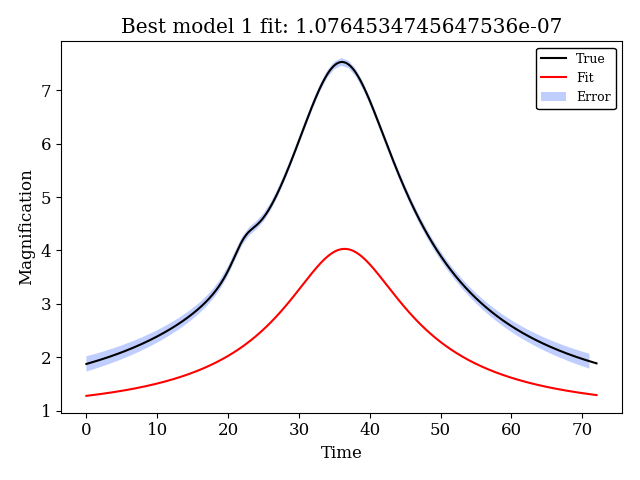
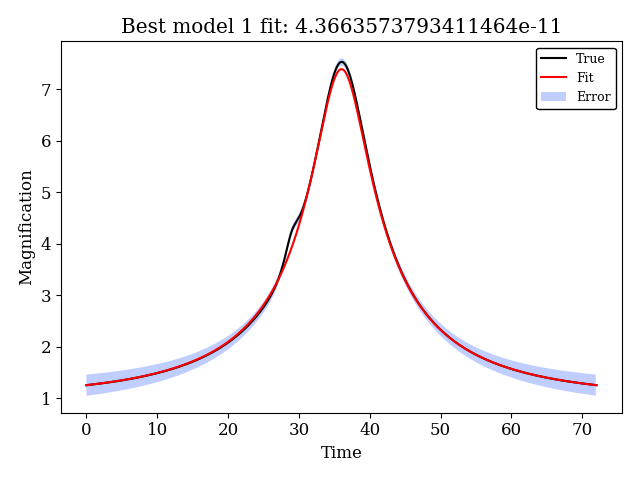
mcmc opt surr

diff --git a/ReversibleJump.py b/ReversibleJump.py
@@ -43,11 +43,11 @@ sn = 2
 
 # Synthetic Event Parameters
 theta_Models = [
-    [36, 0.133, 61.5, 0.0096, 0.002, 1.27, 210.8], # strong binary
-    [36, 0.133, 61.5, 0.0096, 0.00091, 1.3, 210.8], # weak binary 1
-    [36, 0.133, 61.5, 0.0056, 0.0007, 1.3, 210.8], # weak binary 2
-    [36, 0.133, 61.5, 0.0096, 0.0002, 4.9, 223.8], # indistiguishable from single
-    [36, 0.133, 61.5]  # single
+    [36, 0.133, 31.5, 0.0096, 0.002, 1.27, 210.8], # strong binary
+    [36, 0.133, 31.5, 0.0096, 0.00091, 1.3, 210.8], # weak binary 1
+    [36, 0.133, 31.5, 0.0056, 0.0007, 1.3, 210.8], # weak binary 2
+    [36, 0.133, 31.5, 0.0096, 0.0002, 4.9, 223.8], # indistiguishable from single
+    [36, 0.133, 31.5]  # single
     ]
 theta_Model = np.array(theta_Models[sn])
 
@@ -65,7 +65,7 @@ Model.set_magnification_methods([0., 'VBBL', 72.])
 #0, 50, 25, 0.3
 # Generate "Synthetic" Lightcurve
 #epochs = Model.set_times(n_epochs = 720)
-n_epochs = 72
+n_epochs = 720
 epochs = np.linspace(0, 72, n_epochs + 1)[:n_epochs]
 #signal_data = Model.magnification(t)
 #epochs = Model.set_times(n_epochs = 100)
@@ -80,7 +80,7 @@ signal_data = Model.magnification(signal_epochs)
 
 #print(Model.magnification(epochs))
 
-iterations = 200
+iterations = 500
 
 
 
@@ -133,10 +133,10 @@ def ParralelMain(arr):
     sn, Data, signal_data, priors, binary_Sposterior, single_Sposterior, m_pi, iterations = arr
 
     # centreing points for inter-model jumps
-    #center_1 = np.array([36., 0.133, 61.5])
+    center_1s = np.array([36., 0.133, 31.5])
     #center_1 = np.array([36., 0.133, 61.5])
 
-    center_2s = [
+    center_2ss = [
         [36, 0.133, 61.5, 0.0096, np.log(0.002), 1.27, 210.8], # strong binary
         [36., 0.133, 61.5, 0.00963, np.log(0.00092), 1.31, 210.8], # weak binary 1
         [36., 0.133, 61.5, 0.0052, np.log(0.0006), 1.29, 210.9], # weak binary 2
@@ -145,25 +145,33 @@ def ParralelMain(arr):
     #center_2 = np.array(center_2s[sn])
 
     center_2s = interf.get_model_centers(binary_Sposterior, signal_data)
+    center_2s[4] = np.log(center_2s[4])
+
     #print("\n", center_2, " hi")
-    center_1s = interf.get_model_centers(single_Sposterior, signal_data)
+    #center_1s = interf.get_model_centers(single_Sposterior, signal_data)
     #print(Data.flux)
     #binary_ensemble = interf.get_model_ensemble(binary_posterior, Data.flux, 100000)
 
+    '''
     fun = lambda x: -np.exp(f.logLikelihood(1, Data, f.scale(x), priors))
-    min_center_1 = minimize(fun, center_1s)
-        print(min_center_2)
-    center_2 = min_center_2.x
+    min_center_1 = minimize(fun, center_1s, method='CG')
+    print(min_center_1)
+    center_1 = min_center_1.x
 
     fun = lambda x: -np.exp(f.logLikelihood(2, Data, f.scale(x), priors))
-    min_center_2 = minimize(fun, center_2s)
+    min_center_2 = minimize(fun, center_2s, method='CG')
     print(min_center_2)
     center_2 = min_center_2.x
-    
+    '''
+
+
+
+
+
 
 
     # initial covariances (diagonal)
-    cov_scale = 0.00001 #0.01
+    cov_scale = 0.01 #0.01
     covariance_1 = np.multiply(cov_scale, [0.1, 0.01, 0.1])
     covariance_2 = np.multiply(cov_scale, [0.1, 0.01, 0.1, 0.0001, 0.01, 0.01, 0.1])#0.5
 
@@ -175,23 +183,24 @@ def ParralelMain(arr):
 
     # Use adaptiveMCMC to calculate initial covariances
     burns = 25
-    iters = 25#250
+    iters = 500#250
     theta_1i = center_1s
     theta_2i = center_2s
-    covariance_1p, states_1, means_1, c_1, NULL = f.AdaptiveMCMC(1, Data, theta_1i, priors, covariance_1, burns, iters)
-    covariance_2p, states_2, means_2, c_2, NULL = f.AdaptiveMCMC(2, Data, theta_2i, priors, covariance_2, burns, iters)
+    covariance_1p, states_1, means_1, c_1, null, bests, center_1 = f.AdaptiveMCMC(1, Data, theta_1i, priors, covariance_1, burns, iters)
+    covariance_2p, states_2, means_2, c_2, null, bests, center_2 = f.AdaptiveMCMC(2, Data, theta_2i, priors, covariance_2, burns, iters)
 
     covariance_p = [covariance_1p, covariance_2p]
 
     #center_1 = states_1[:, -1]
-    #center_2 = states_2[:, 1]
-
+    #center_2 = states_2[:, -1]
+    
     print(center_1s, center_1)
     print(center_2s, center_2)
 
     print("Center 1", center_1, "True Prob", np.exp(f.logLikelihood(1, Data, center_1, priors)))
     print("Center 2", center_2, "True Prob", np.exp(f.logLikelihood(2, Data, center_2, priors)))
     centers = [center_1, center_2]
+
     # loop specific values
 
     #print(states_1[:, -1])
@@ -229,7 +238,7 @@ def ParralelMain(arr):
     print('Running RJMCMC')
 
                 
-    mem_2 = states_2[:, -1]
+    mem_2 = center_2#states_2[:, -1]
     adaptive_score = [[], []]
     #inter_props = [0, 0]
 
@@ -242,7 +251,7 @@ def ParralelMain(arr):
         #diagnostics
         #print(f'\rLikelihood: {np.exp(pi):.3f}', end='')
         cf = i/(iterations-1);
-        #print(f'Current: Likelihood {np.exp(pi):.4f}, M {m} | Progress: [{"#"*round(50*cf)+"-"*round(50*(1-cf))}] {100.*cf:.2f}%\r', end='')
+        print(f'Current: Likelihood {np.exp(pi):.4f}, M {m} | Progress: [{"#"*round(50*cf)+"-"*round(50*(1-cf))}] {100.*cf:.2f}%\r', end='')
 
         mProp = random.randint(1,2) # since all models are equally likelly, this has no presence in the acceptance step
         #thetaProp = f.RJCenteredProposal(m, mProp, theta, covariance_p[mProp-1], centers, mem_2, priors) #states_2)
@@ -262,7 +271,7 @@ def ParralelMain(arr):
         #    scale = 1/(np.max(l[0:3]) - np.min(l[0:3]))
 
         #scale = 1
-        thetaProp, piProp, acc = f.Propose(Data, signal_data, m, mProp, theta, pi, covariance_p, centers, binary_Sposterior, samples, log_prob_samples, n_samples, priors, False)
+        thetaProp, piProp, acc = f.Propose(Data, signal_data, m, mProp, theta, pi, covariance_p, centers, binary_Sposterior, samples, log_prob_samples, n_samples, priors, mem_2, False)
         #if random.random() <= scale * np.exp(piProp-pi) * priorRatio * m_pi[mProp-1]/m_pi[m-1] * J[mProp-1]: # metropolis acceptance
         if random.random() <= acc: #*q!!!!!!!!!!!!# metropolis acceptance
             if m == mProp: adaptive_score[mProp - 1].append(1)
@@ -271,7 +280,7 @@ def ParralelMain(arr):
             m = mProp
             score += 1
             pi = piProp
-            #if mProp == 2: mem_2 = thetaProp
+            if mProp == 2: mem_2 = thetaProp
 
             if bests[mProp-1] < np.exp(piProp): 
                 bests[mProp-1] = np.exp(piProp)
@@ -332,7 +341,7 @@ params = [sn, Data, signal_data, priors, binary_Sposterior, single_Sposterior, m
 states, adaptive_score, ms, bestt, bests, centers = ParralelMain(params)
 center_1, center_2 = centers
 
-pltf.LightcurveFitError(2, center_2, priors, Data, Model, epochs, error, True, "BinaryCenter")
+pltf.LightcurveFitError(2, f.unscale(2, center_2), priors, Data, Model, epochs, error, True, "BinaryCenter")
 pltf.LightcurveFitError(1, center_1, priors, Data, Model, epochs, error, True, "SingleCenter")
 
 '''

diff --git a/Functions.py b/Functions.py
@@ -126,6 +126,11 @@ def AdaptiveMCMC(m, data, theta, priors, covariance, burns, iterations):
     covs = []
 
     pi = logLikelihood(m, data, unscale(m, theta), priors)
+
+    bests = np.exp(pi)
+    bestt = theta
+
+
     for i in range(1, burns): # warm up walk to establish an empirical covariance
         # propose a new state and calculate the resulting likelihood and prior ratio
         proposed = GaussianProposal(theta, covariance)
@@ -136,6 +141,11 @@ def AdaptiveMCMC(m, data, theta, priors, covariance, burns, iterations):
             theta = proposed
             pi = piProposed
             c[i] = 1
+
+            if bests < np.exp(piProposed): 
+                bests = np.exp(piProposed)
+                bestt = theta
+
 
         else: c[i] = 0
         
@@ -166,6 +176,10 @@ def AdaptiveMCMC(m, data, theta, priors, covariance, burns, iterations):
             pi = piProposed
             c[t]=1
 
+            if bests < np.exp(piProposed): 
+                bests = np.exp(piProposed)
+                bestt = theta
+
         else: c[t]=0
  
         states[:, t] = theta#unscale(m, theta)
@@ -181,7 +195,7 @@ def AdaptiveMCMC(m, data, theta, priors, covariance, burns, iterations):
     # performance diagnostic
     print(f"Adaptive Acc: {(np.sum(c) / (iterations + burns)):.4f}, Model: {m}")
 
-    return covariance, states, means, c, covs
+    return covariance, states, means, c, covs, bests, bestt
 
 
 
@@ -198,10 +212,10 @@ def GaussianProposal(theta, covariance):
     '''
     return multivariate_normal.rvs(mean = theta, cov = covariance)
 
-def Propose(Data, signal_data, m, mProp, theta, pi, covariance, centers, binary_Sposterior, samples, log_prob_samples, n_samples, priors, delayed):
+def Propose(Data, signal_data, m, mProp, theta, pi, covariance, centers, binary_Sposterior, samples, log_prob_samples, n_samples, priors, mem_2, delayed):
 
     #mProp = random.randint(1,2) # since all models are equally likelly, this has no presence in the acceptance step
-    thetaProp, gratio = RJCenteredProposal(m, mProp, theta, covariance[mProp-1], priors, centers, binary_Sposterior, samples, log_prob_samples, n_samples, signal_data, delayed) #states_2)
+    thetaProp, gratio = RJCenteredProposal(m, mProp, theta, covariance[mProp-1], priors, centers, binary_Sposterior, samples, log_prob_samples, n_samples, signal_data, mem_2, delayed) #states_2)
     priorRatio = np.exp(PriorRatio(m, mProp, unscale(m, theta), unscale(mProp, thetaProp), priors))
     piProp = (logLikelihood(mProp, Data, unscale(mProp, thetaProp), priors))
 
@@ -215,7 +229,7 @@ def Propose(Data, signal_data, m, mProp, theta, pi, covariance, centers, binary_
     #    gratio = 1
 
     acc = np.exp(piProp-pi) * priorRatio * gratio# * J
-    if mProp == 2 and m == 1:
+    if mProp == 2 and m == 1 and False:
         print("next")
         print("acc: ", acc)
         print("piProp: ", np.exp(piProp))
@@ -226,7 +240,7 @@ def Propose(Data, signal_data, m, mProp, theta, pi, covariance, centers, binary_
     return thetaProp, piProp, acc
 
 
-def RJCenteredProposal(m, mProp, theta, covariance, priors, centers, binary_Sposterior, samples, log_prob_samples, n_samples, signal_data, delayed):
+def RJCenteredProposal(m, mProp, theta, covariance, priors, centers, binary_Sposterior, samples, log_prob_samples, n_samples, signal_data, mem_2, delayed):
     '''
     Proposes a new point to jump to when doing RJMCMC using centreing points,
     in the context of single and binary microlensing events.
@@ -312,6 +326,7 @@ def RJCenteredProposal(m, mProp, theta, covariance, priors, centers, binary_Spos
             #log_prob_samples
 
 
+            #u=mem_2[3:]
 
             #log_prob_ = np.array(posterior.log_prob(theta = samples, x = signal_data))
 
@@ -324,11 +339,12 @@ def RJCenteredProposal(m, mProp, theta, covariance, priors, centers, binary_Spos
             #for parameter in range(3): # cycle through each parameter and associated prior
             #    g -= (priors[parameter].logPDF(thetaProp[parameter]))
 
-            print(thetaProp)
-            thetaProp[4] = np.log(thetaProp[4])
+            #print(thetaProp)
+            
+            thetaProp[4] = np.log(thetaProp[4]) # if drawing from surrogate
 
 
-            return thetaProp, 1/np.exp(g)#1/q(u|l + centers[mProp-1][0:3])
+            return thetaProp, 1/np.exp(g) #1/q(u|l + centers[mProp-1][0:3])
 
 def D(m):
     '''
